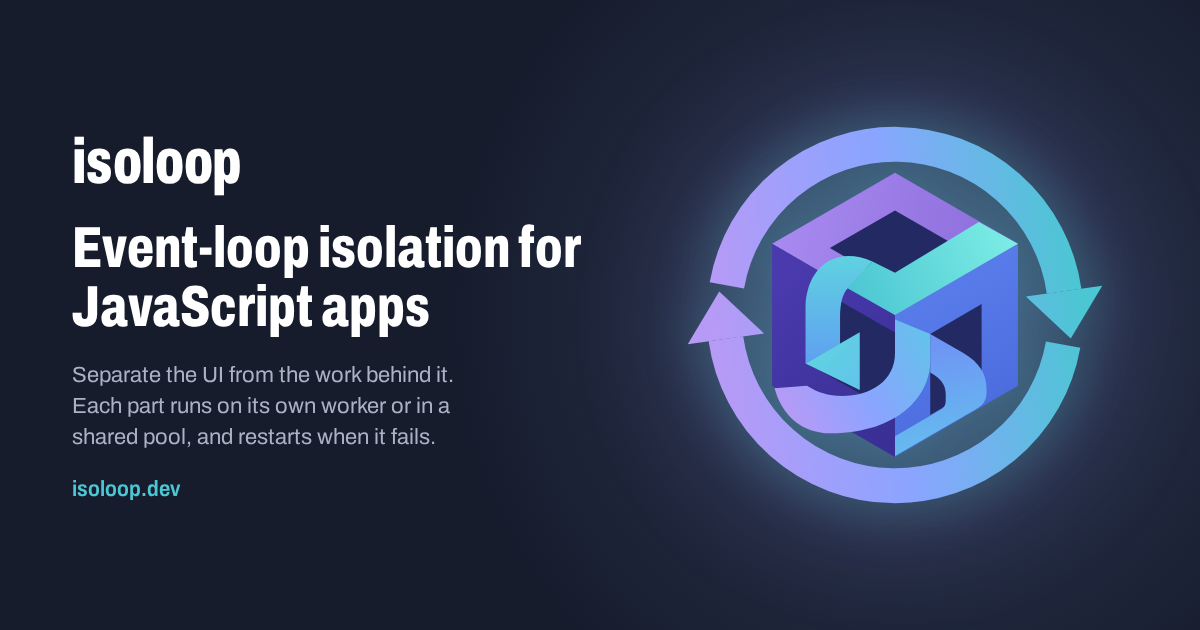
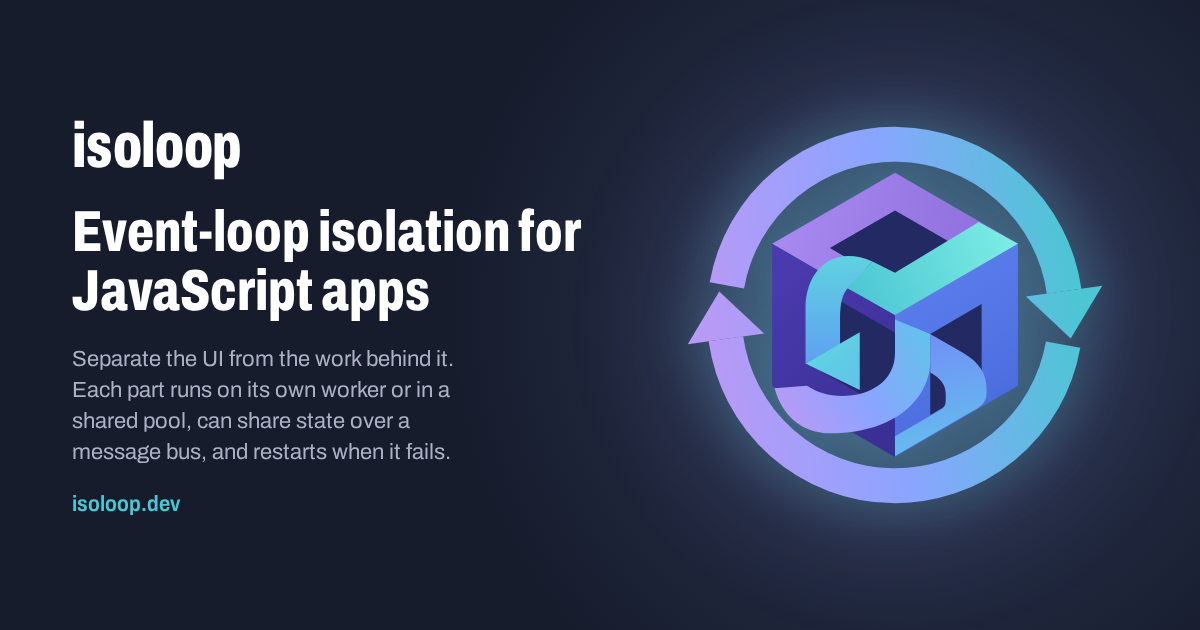
brand: the card says parts can share state over a message bus

Changed region(s): [[0.0617, 0.3317, 0.4933, 0.8143], [0.0617, 0.181, 0.2158, 0.3016]]

diff --git a/packages/ui/brand/social/cards.html b/packages/ui/brand/social/cards.html
@@ -9,7 +9,7 @@
     <div class="h">Event-loop isolation for JavaScript apps</div>
     <div class="sub">
       Separate the UI from the work behind it. Each part runs on its own worker or in a shared pool,
-      and restarts when it fails.
+      can share state over a message bus, and restarts when it fails.
     </div>
     <div class="url">isoloop.dev</div>
   </div>
